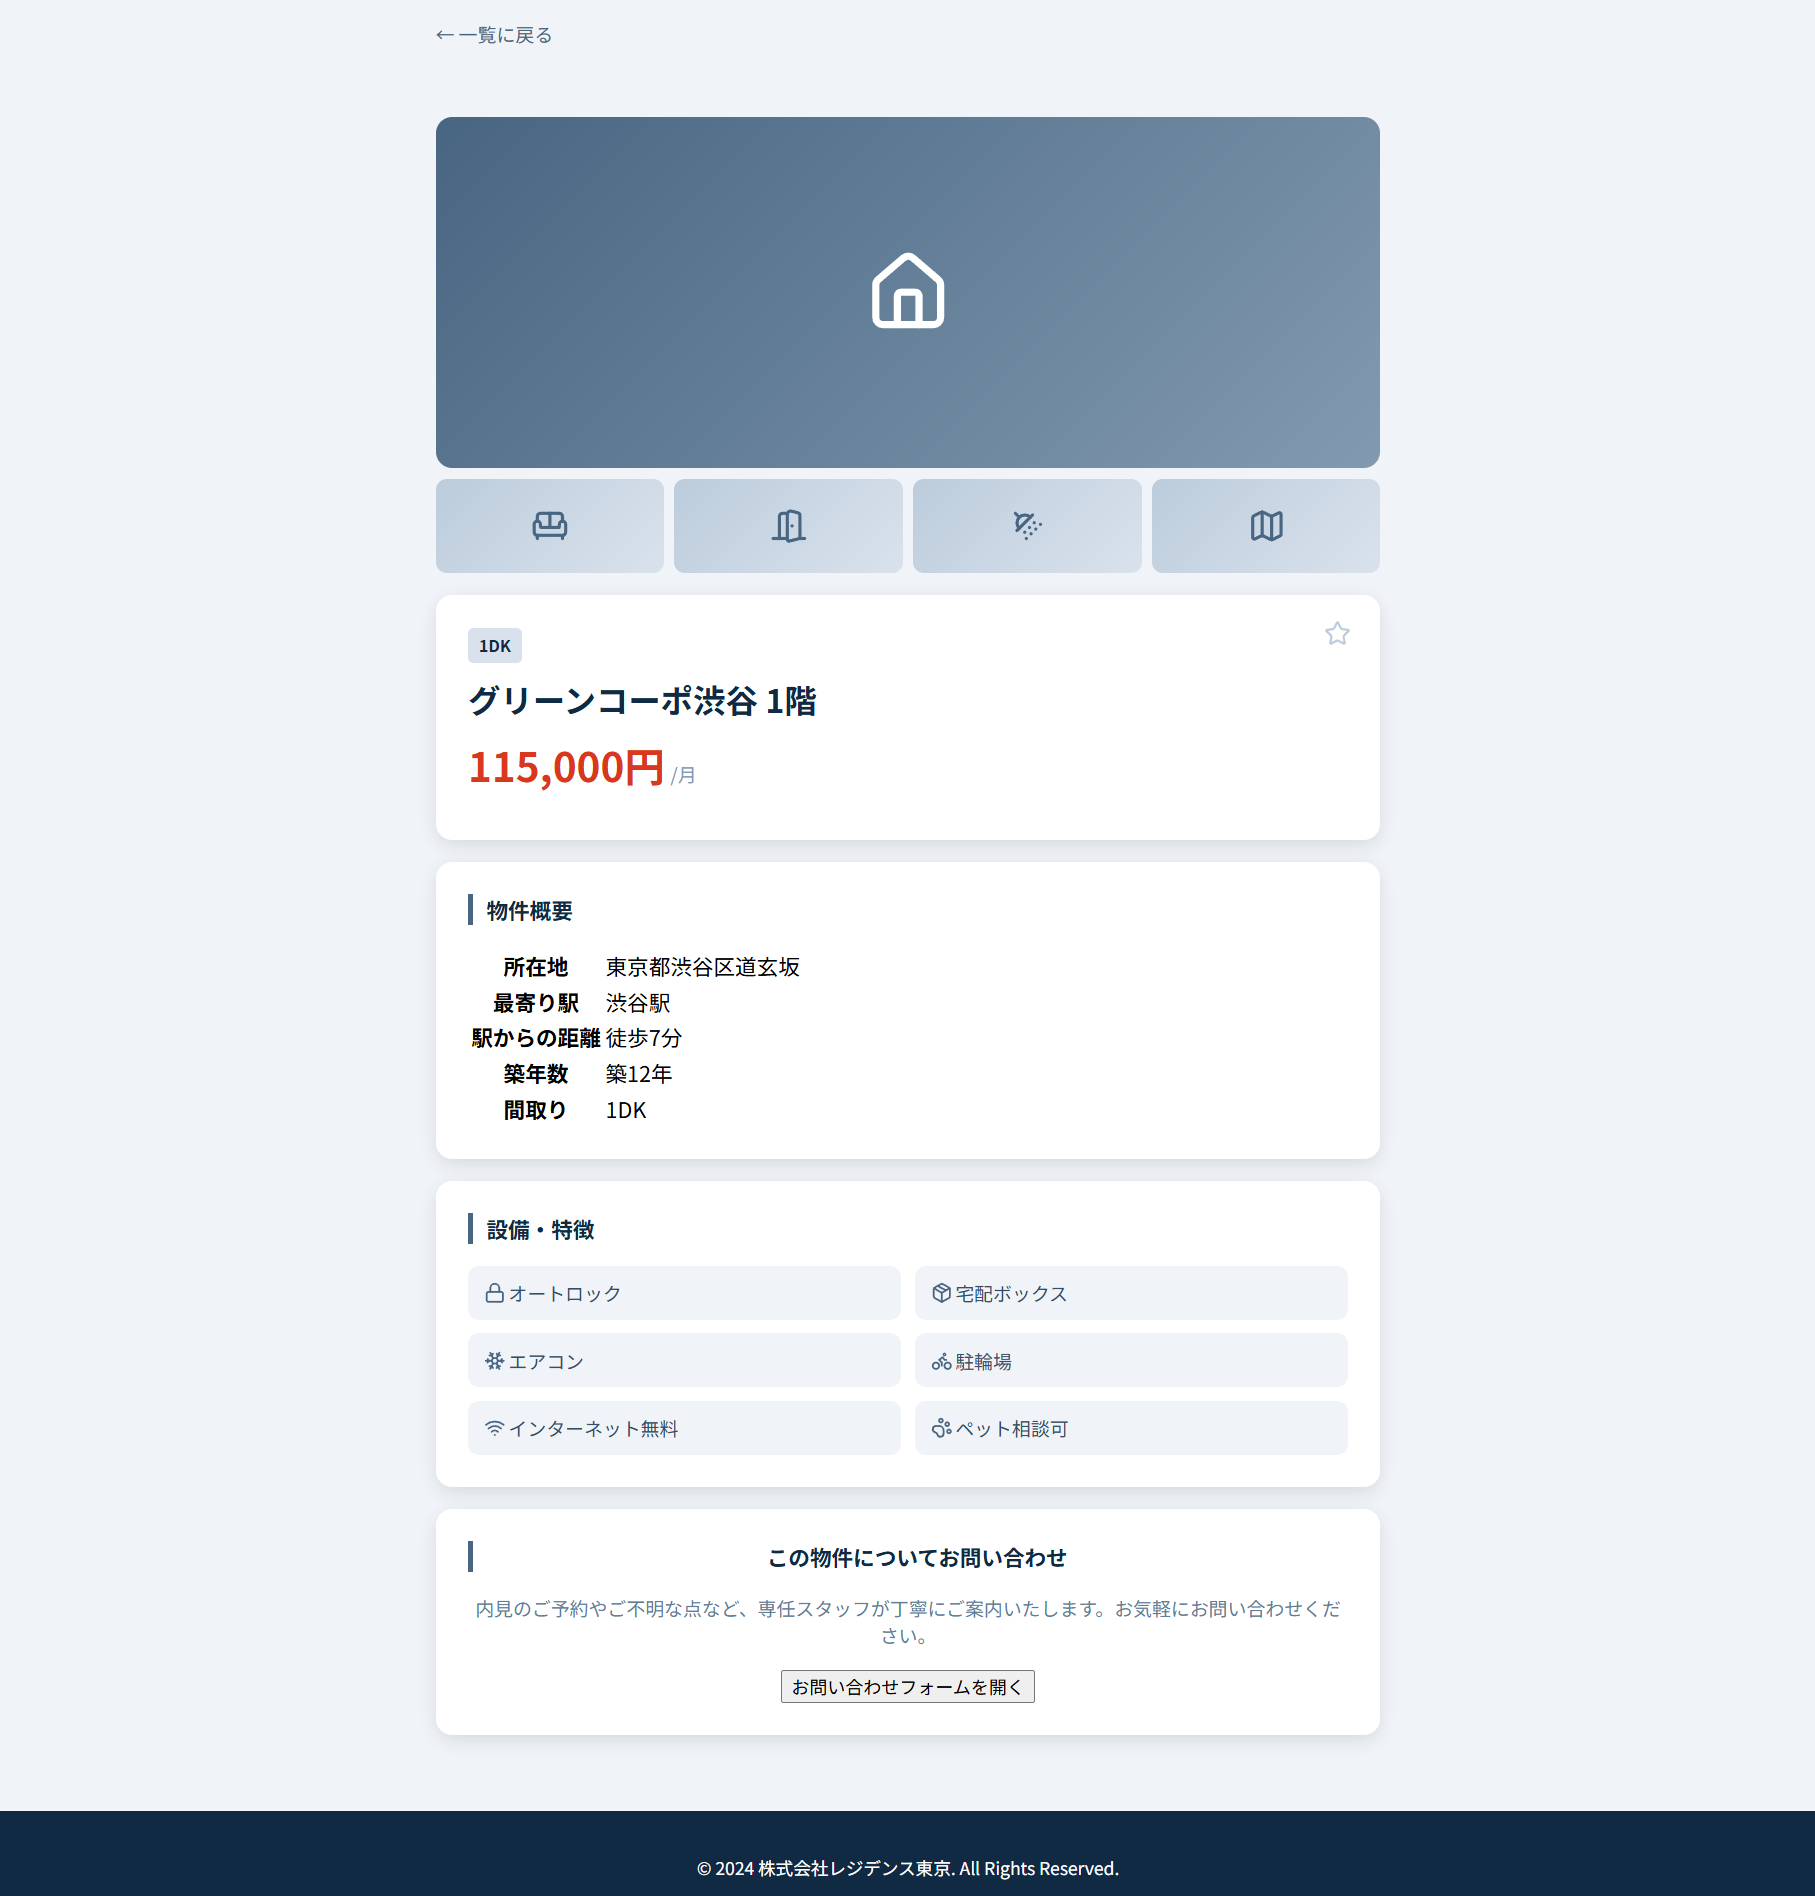
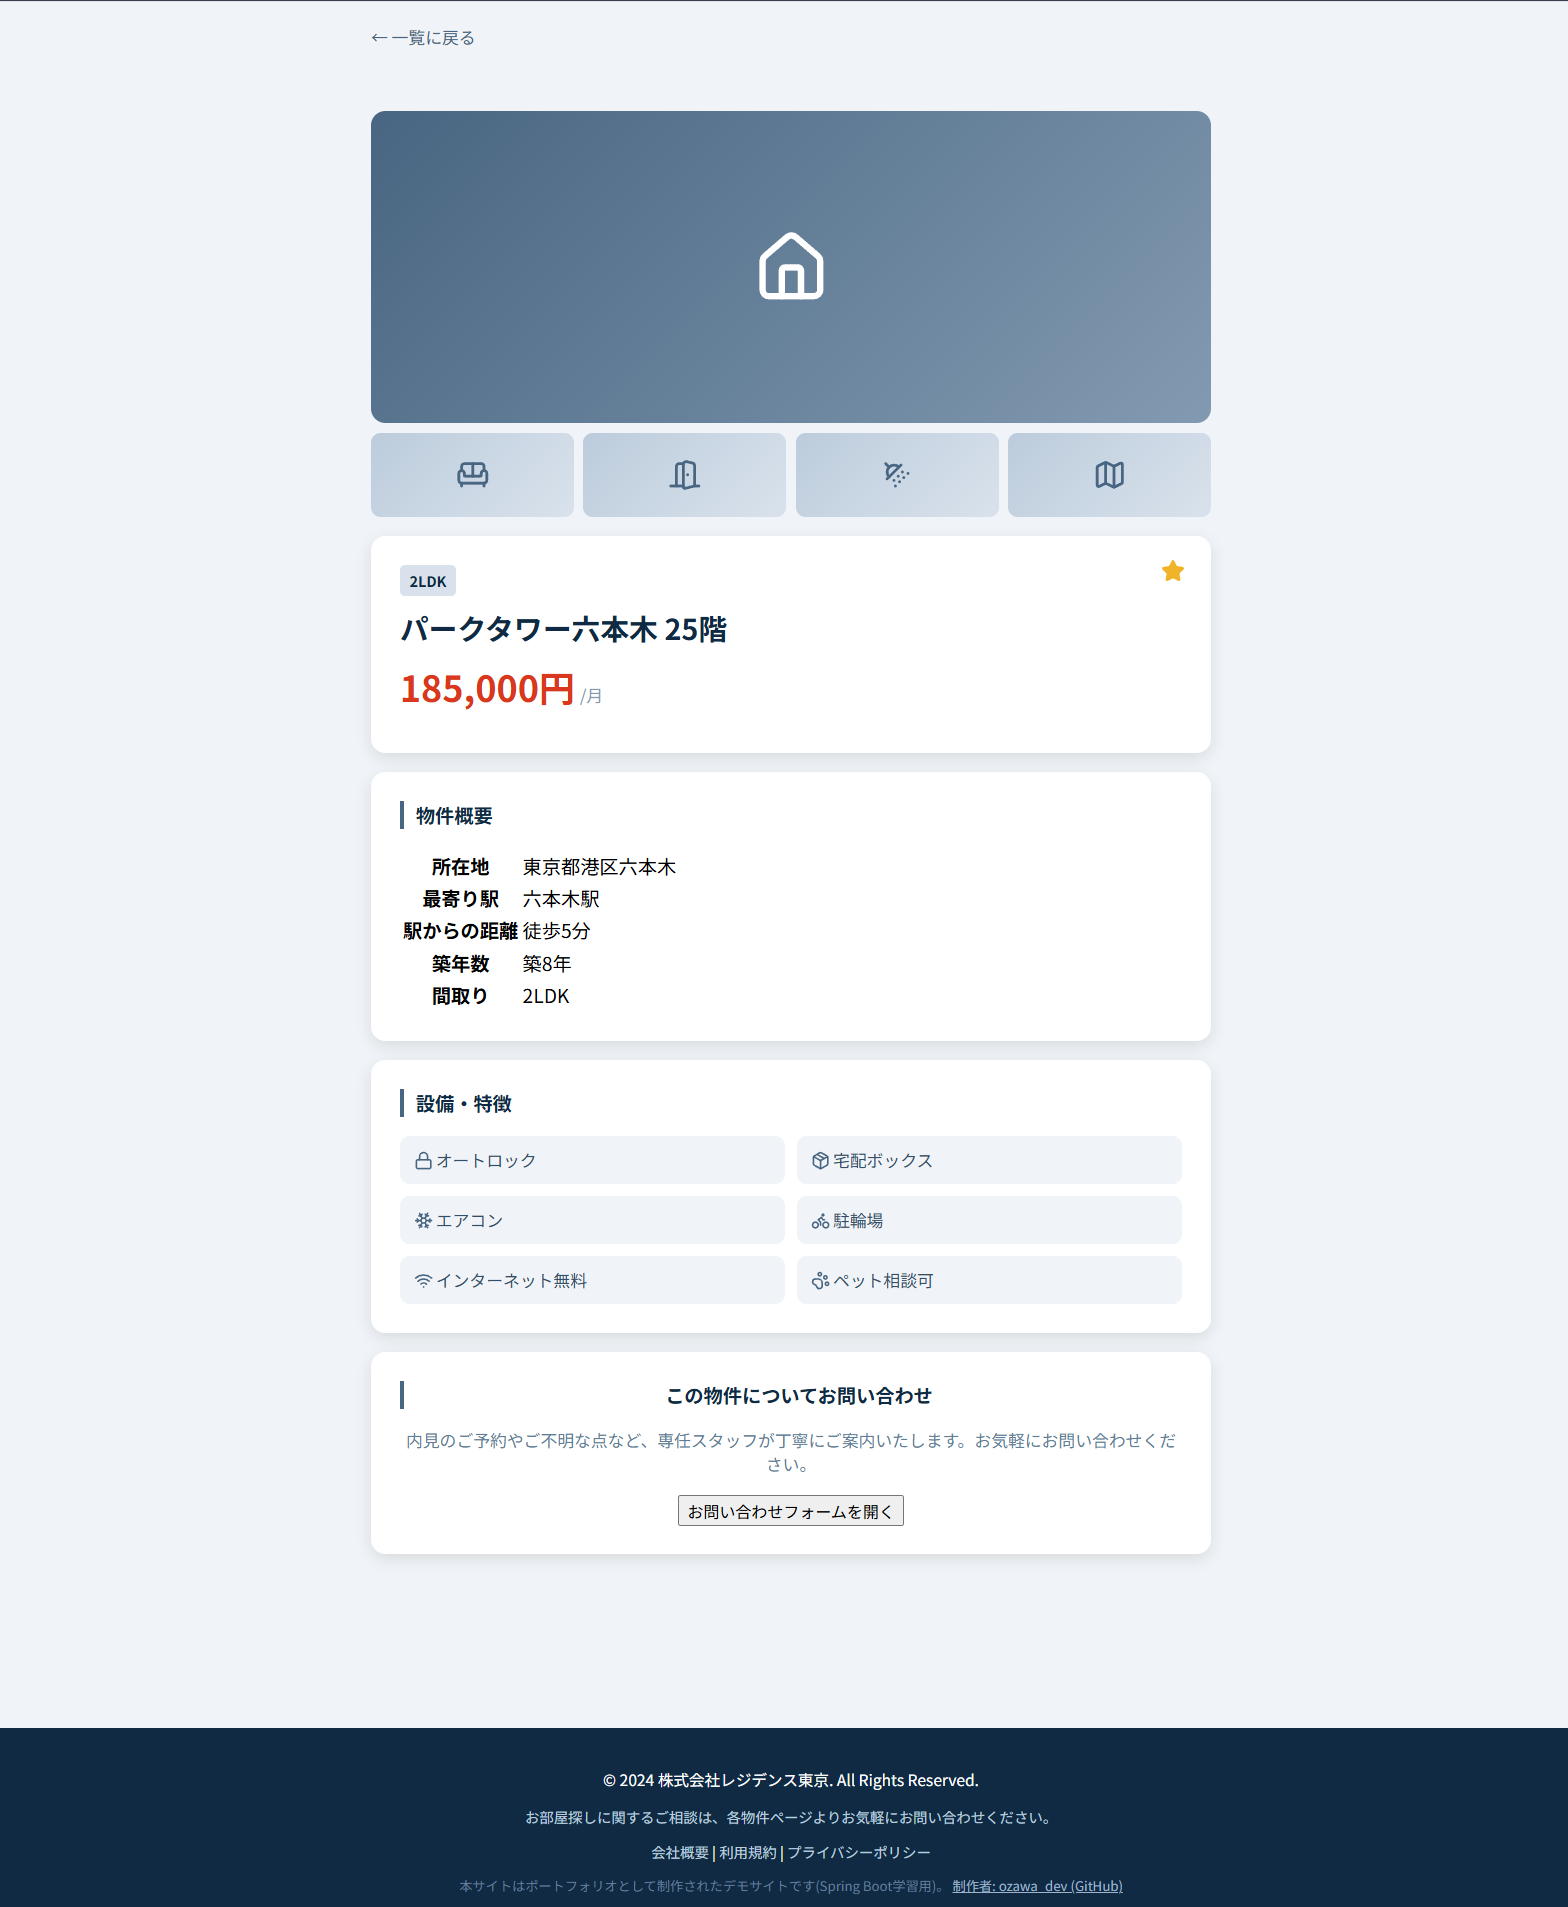
物件詳細ページを不動産サイト風に刷新し、問い合わせフォームを追加
- 画像ギャラリー・物件概要テーブル・設備セクションを追加
- 問い合わせフォーム(バリデーション付き)を実装
- Java環境差異を解決

diff --git a/README.md b/README.md
@@ -1,0 +1,99 @@
+# 物件検索ポータル (Property Search Portal)
+
+Spring Boot + Thymeleaf で構築した、賃貸物件検索ポータルアプリです。
+検索・絞り込み・お気に入り機能に加え、会社概要や利用規約といった周辺ページまで含めて、
+実在の不動産ポータルサイトに近い構成を意識して実装しています。
+
+**デモサイト**: https://property-search-portal.onrender.com/property
+
+## 主な機能
+
+### サーバーサイド (Spring Boot / Thymeleaf)
+- 物件一覧の動的表示(`th:each` によるループ処理)
+- キーワード検索(物件名・所在地の部分一致)
+- エリア・間取り・家賃上限による複合フィルタ
+- 価格ソート(安い順・高い順)
+- 物件詳細ページ(`@PathVariable` によるルーティング、`/property/{id}`)
+- 会社概要・利用規約・プライバシーポリシーページ
+
+### クライアントサイド (JavaScript / CSS)
+- お気に入り機能(`localStorage` を使った状態の永続化)
+- お気に入り一覧フィルタ(URLパラメータと連動した絞り込み表示)
+- 並び替えアニメーション(FLIP法によるスムーズなカード移動)
+- モーダルでのお問い合わせフォーム(入力バリデーション付き)
+- レスポンシブ対応(メディアクエリによるスマホ表示最適化)
+- Lucideアイコンによる統一されたUI
+
+## 使用技術
+
+| 分類 | 技術 |
+|---|---|
+| 言語 | Java 17 |
+| フレームワーク | Spring Boot 3.x (Spring MVC) |
+| テンプレートエンジン | Thymeleaf |
+| ビルドツール | Gradle |
+| ライブラリ | Lombok, Lucide Icons |
+| フロントエンド | HTML / CSS / JavaScript (Vanilla) |
+| インフラ | Docker, Render |
+| IDE | IntelliJ IDEA |
+
+## 画面イメージ
+
+### 物件一覧・検索フィルタ
+エリア・間取り・家賃上限で絞り込める検索フィルタと、キーワード検索を備えた一覧画面です。
+![一覧画面](screenshots/list.png)
+![フィルタ絞り込み](screenshots/filter.png)
+
+### 並び替え
+安い順・高い順の切り替え時、カードがアニメーションしながら並び替わります。
+![並び替え](screenshots/sort.png)
+
+### 物件詳細
+画像ギャラリー・物件概要・設備一覧を備えた、不動産ポータルサイト風の詳細ページです。
+![詳細画面](screenshots/detail.png)
+
+### お問い合わせフォーム
+物件詳細ページからモーダルで開くお問い合わせフォームです。入力チェックと送信完了画面を実装しています。
+![お問い合わせフォーム](screenshots/contactform.png)
+
+### お気に入り一覧
+`localStorage` に保存したお気に入り物件のみを絞り込んで表示します。
+![お気に入り画面](screenshots/favorite.png)
+
+### 会社概要・利用規約・プライバシーポリシー
+実在のサービスを想定し、周辺ページまで作り込んでいます。
+![会社概要](screenshots/about.png)
+![利用規約](screenshots/terms.png)
+![プライバシーポリシー](screenshots/privacy.png)
+
+## 実装のポイント
+
+- **役割分担の意識**:サーバーサイド(検索・フィルタ・詳細表示のルーティング)とクライアントサイド(お気に入りの状態管理、UIアニメーション、フォームバリデーション)で処理を分担し、それぞれに適した実装方法を選択しています。
+- **FLIPアニメーション**:並び替え時のカード移動は、要素の再配置前後の位置差分を利用したFLIP法(First, Last, Invert, Play)で実装し、ページ遷移なしで滑らかな視覚効果を実現しています。
+- **Dockerによる本番デプロイ**:マルチステージビルドのDockerfileを作成し、Render上でコンテナとして本番稼働させています。
+- **段階的な機能追加**:Hello World表示から始め、静的HTML → Thymeleaf導入 → モデルクラス設計 → 一覧表示 → 検索/ソート → 詳細ページ → クライアントサイド機能 → 本番デプロイ、という順序で段階的に機能を積み上げています。
+
+## 今後の展望
+
+- Spring Data JPA + H2/MySQL によるデータベース接続(現在はインメモリの `ArrayList` でデータを保持)
+- 独自ドメインの取得
+- 物件画像のアップロード機能
+
+## セットアップ方法
+
+```bash
+# リポジトリをクローン
+git clone https://github.com/ozkit0103/property-search-portal.git
+
+# プロジェクトディレクトリに移動
+cd property-search-portal
+
+# Gradleでビルド・起動
+./gradlew bootRun
+```
+
+起動後、ブラウザで `http://localhost:8080/property` にアクセスしてください。
+
+---
+
+制作者: ozawa_dev ([GitHub](https://github.com/ozkit0103))
